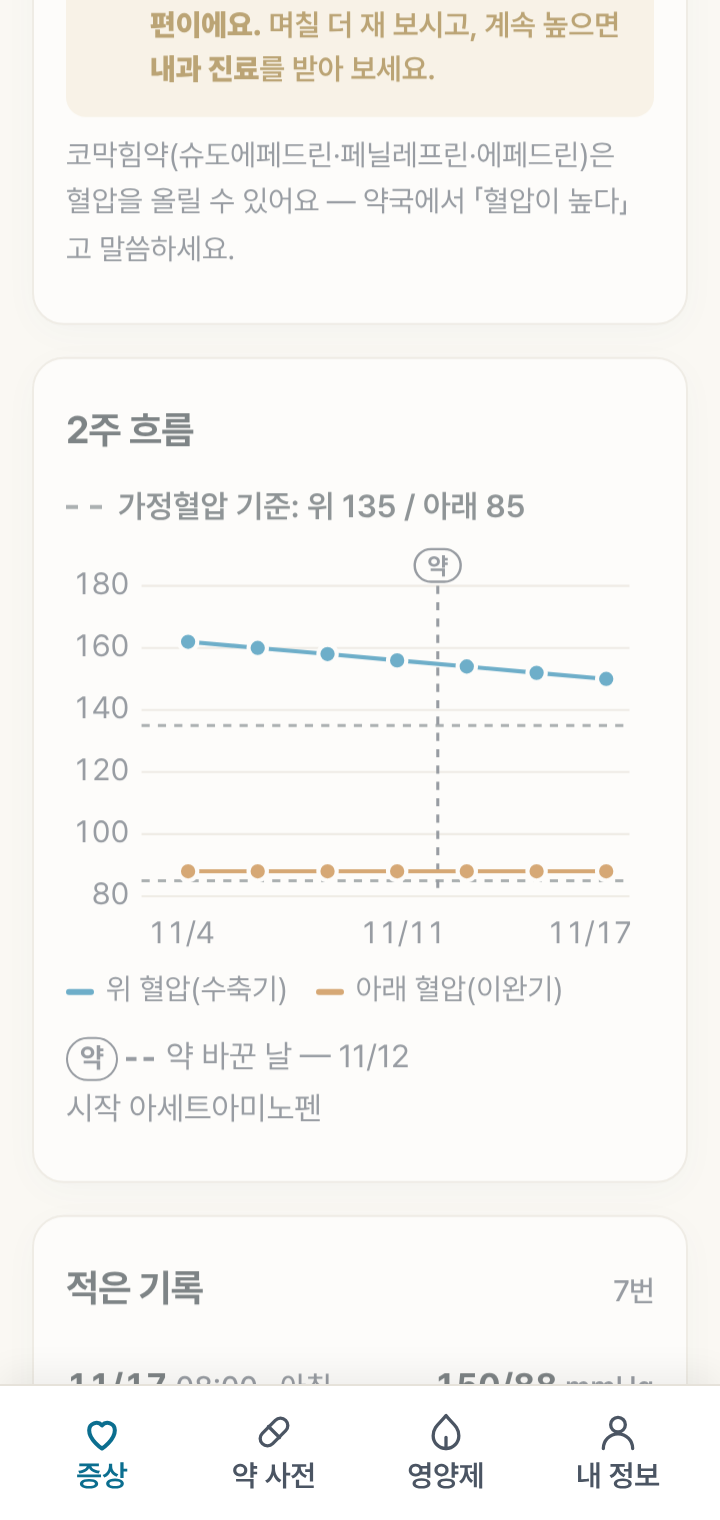
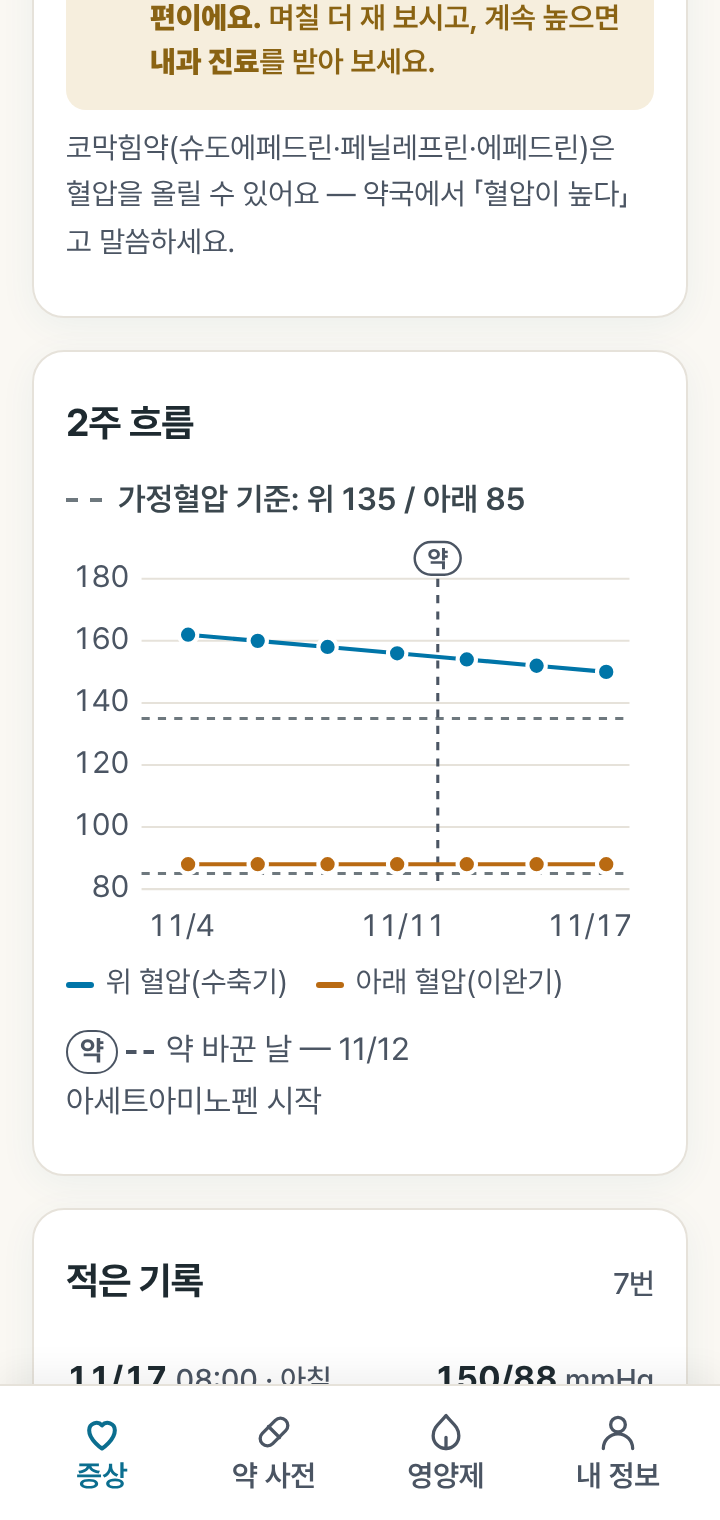
약지도: 그래프 범례 「11/12 아세트아미노펜 시작」 · 사진 다시
Claude-Session: https://claude.ai/code/session_01EnA5kC7cG7NGAyuaz7gY2Z

diff --git a/docs/yakjido/srv.js b/docs/yakjido/srv.js
@@ -5806,10 +5806,10 @@ window.vitalChart = function (k){
   /* 11-17 1등 로드맵 6 — 약을 담은 날·뺀 날을 세로 점선으로(혈압·혈당 변화와 약 바꾼 날을 한눈에). 같은 날은 하나로 */
   const CH = {}; for (const c of (ME.chg || [])) if (c.d >= dayBefore(13)) (CH[c.d] = CH[c.d] || []).push(c);
   const nmOf = id => { const it = takingItems().find(x => x.id === id) || (typeof drug === 'function' && drug(id)); return it ? String(it.name).split(' (')[0] : '약'; };
-  const marks = Object.keys(CH).sort().map(d => { const x = X(d + 'T12:00').toFixed(1), t = CH[d].map(c => (c.a ? '시작 ' : '뺌 ') + nmOf(c.id)).join(' · ');
+  const marks = Object.keys(CH).sort().map(d => { const x = X(d + 'T12:00').toFixed(1), t = CH[d].map(c => nmOf(c.id) + (c.a ? ' 시작' : ' 뺌')).join(' · ');
     return `<line x1="${x}" x2="${x}" y1="${pt}" y2="${H - pb}" class="vz-chg"><title>${d.slice(5).replace('-', '/')} ${esc(t)}</title></line><g class="vz-chgt" aria-hidden="true"><rect x="${(+x - fz * .75).toFixed(1)}" y="1" width="${(fz * 1.5).toFixed(1)}" height="${fz + 1}" rx="${((fz + 1) / 2).toFixed(1)}"/><text x="${x}" y="${(fz * .82 + 1).toFixed(1)}" text-anchor="middle">약</text></g>`; }).join('');
-  const chList = Object.keys(CH).sort().map(d => `${d.slice(5).replace('-', '/')} ${CH[d].map(c => (c.a ? '시작 ' : '뺌 ') + esc(nmOf(c.id))).join(' · ')}`);
-  return `${refLine}<svg class="vz" style="--vz:${fz}px" viewBox="0 0 ${W} ${H}" role="img" aria-label="최근 2주 ${k === 'bp' ? '혈압' : '혈당'} 흐름 — 아래 목록에 같은 숫자가 있어요">${grid}${refs}${days}${marks}${series}</svg>${legend}${chList.length ? `<p class="vz-chgl"><b>약</b><i></i>약 바꾼 날 — ${chList.join(' / ')}</p>` : ''}`;
+  const chList = Object.keys(CH).sort().map(d => `${d.slice(5).replace('-', '/')} ${CH[d].map(c => esc(nmOf(c.id)) + (c.a ? ' 시작' : ' 뺌')).join(' · ')}`);
+  return `${refLine}<svg class="vz" style="--vz:${fz}px" viewBox="0 0 ${W} ${H}" role="img" aria-label="최근 2주 ${k === 'bp' ? '혈압' : '혈당'} 흐름 — 아래 목록에 같은 숫자가 있어요">${grid}${refs}${days}${marks}${series}</svg>${legend}${chList.length ? `<p class="vz-chgl"><b>약</b><i></i>약 바꾼 날 — ${chList.join(' · ')}</p>` : ''}`;
 }
 try { const st = document.createElement('style'); st.textContent = '.vz-dot.v3{fill:var(--muted)}.vz-legend i.v3{background:var(--muted)}.vz-chg{stroke:var(--muted);stroke-width:1.5;stroke-dasharray:4 4}.vz-chgt rect{fill:var(--card,#fff);stroke:var(--muted);stroke-width:1.2}.vz-chgt text{fill:var(--muted);font-size:calc(var(--vz) * .78);font-weight:700}.vz-chgl{margin:8px 0 0;font-size:.9375rem;color:var(--muted);line-height:1.6;word-break:keep-all}.vz-chgl i{display:inline-block;width:14px;height:0;border-top:2px dashed var(--muted);vertical-align:middle;margin-right:6px}.vz-chgl b{display:inline-block;padding:0 6px;margin-right:4px;border:1.2px solid var(--muted);border-radius:999px;font-size:.8125rem;line-height:1.4}'; document.head.appendChild(st); } catch (e) {}
 /* 11-09 앱 껍데기에서 옮김(첫 화면 예산) */

diff --git a/yakjido/srv.js b/yakjido/srv.js
@@ -5806,10 +5806,10 @@ window.vitalChart = function (k){
   /* 11-17 1등 로드맵 6 — 약을 담은 날·뺀 날을 세로 점선으로(혈압·혈당 변화와 약 바꾼 날을 한눈에). 같은 날은 하나로 */
   const CH = {}; for (const c of (ME.chg || [])) if (c.d >= dayBefore(13)) (CH[c.d] = CH[c.d] || []).push(c);
   const nmOf = id => { const it = takingItems().find(x => x.id === id) || (typeof drug === 'function' && drug(id)); return it ? String(it.name).split(' (')[0] : '약'; };
-  const marks = Object.keys(CH).sort().map(d => { const x = X(d + 'T12:00').toFixed(1), t = CH[d].map(c => (c.a ? '시작 ' : '뺌 ') + nmOf(c.id)).join(' · ');
+  const marks = Object.keys(CH).sort().map(d => { const x = X(d + 'T12:00').toFixed(1), t = CH[d].map(c => nmOf(c.id) + (c.a ? ' 시작' : ' 뺌')).join(' · ');
     return `<line x1="${x}" x2="${x}" y1="${pt}" y2="${H - pb}" class="vz-chg"><title>${d.slice(5).replace('-', '/')} ${esc(t)}</title></line><g class="vz-chgt" aria-hidden="true"><rect x="${(+x - fz * .75).toFixed(1)}" y="1" width="${(fz * 1.5).toFixed(1)}" height="${fz + 1}" rx="${((fz + 1) / 2).toFixed(1)}"/><text x="${x}" y="${(fz * .82 + 1).toFixed(1)}" text-anchor="middle">약</text></g>`; }).join('');
-  const chList = Object.keys(CH).sort().map(d => `${d.slice(5).replace('-', '/')} ${CH[d].map(c => (c.a ? '시작 ' : '뺌 ') + esc(nmOf(c.id))).join(' · ')}`);
-  return `${refLine}<svg class="vz" style="--vz:${fz}px" viewBox="0 0 ${W} ${H}" role="img" aria-label="최근 2주 ${k === 'bp' ? '혈압' : '혈당'} 흐름 — 아래 목록에 같은 숫자가 있어요">${grid}${refs}${days}${marks}${series}</svg>${legend}${chList.length ? `<p class="vz-chgl"><b>약</b><i></i>약 바꾼 날 — ${chList.join(' / ')}</p>` : ''}`;
+  const chList = Object.keys(CH).sort().map(d => `${d.slice(5).replace('-', '/')} ${CH[d].map(c => esc(nmOf(c.id)) + (c.a ? ' 시작' : ' 뺌')).join(' · ')}`);
+  return `${refLine}<svg class="vz" style="--vz:${fz}px" viewBox="0 0 ${W} ${H}" role="img" aria-label="최근 2주 ${k === 'bp' ? '혈압' : '혈당'} 흐름 — 아래 목록에 같은 숫자가 있어요">${grid}${refs}${days}${marks}${series}</svg>${legend}${chList.length ? `<p class="vz-chgl"><b>약</b><i></i>약 바꾼 날 — ${chList.join(' · ')}</p>` : ''}`;
 }
 try { const st = document.createElement('style'); st.textContent = '.vz-dot.v3{fill:var(--muted)}.vz-legend i.v3{background:var(--muted)}.vz-chg{stroke:var(--muted);stroke-width:1.5;stroke-dasharray:4 4}.vz-chgt rect{fill:var(--card,#fff);stroke:var(--muted);stroke-width:1.2}.vz-chgt text{fill:var(--muted);font-size:calc(var(--vz) * .78);font-weight:700}.vz-chgl{margin:8px 0 0;font-size:.9375rem;color:var(--muted);line-height:1.6;word-break:keep-all}.vz-chgl i{display:inline-block;width:14px;height:0;border-top:2px dashed var(--muted);vertical-align:middle;margin-right:6px}.vz-chgl b{display:inline-block;padding:0 6px;margin-right:4px;border:1.2px solid var(--muted);border-radius:999px;font-size:.8125rem;line-height:1.4}'; document.head.appendChild(st); } catch (e) {}
 /* 11-09 앱 껍데기에서 옮김(첫 화면 예산) */

diff --git a/docs/yakjido/sw.js b/docs/yakjido/sw.js
@@ -9,7 +9,7 @@
                        판이 같으면 캐시 그대로, 판이 바뀌면 새로 받아 넣고 옛 판은 지운다(prune).
    판 없는 옛 주소는 «캐시 먼저» — 한 번 받은 것은 즉시 열리고, 뒤에서 조용히 새로 받아 둔다.
    인터넷이 안 되면 어느 캐시에든 있는 사본을 준다(5-01 — 첫 방문 뒤 비행기 모드에서 본문이 안 뜨던 것). */
-const CACHE = 'yakjido-2026-11-18T02:24-96449753';
+const CACHE = 'yakjido-2026-11-18T02:42-d01461ea';
 const DATA = 'yakjido-data-v1';
 /* 기내 모드·바깥 파일 0(10-27) — 글꼴(fonts/)·로그인 프로그램(vendor/)은 배포 묶음 안. 판이 박힌 꾸러미라 내용이 안 바뀌니 «캐시 먼저», 앱 판이 바뀌어도 지우지 않는다(EXT).
    바깥 주소는 하나도 담지 않는다 — 서버 응답(supabase REST)·날씨는 그대로 지나간다(09-22 원칙) */

diff --git a/docs/yakjido/index.html b/docs/yakjido/index.html
@@ -1810,7 +1810,7 @@ html:not(.ink) .rf-none{display:none}</style>
 <script>
 window.__YAKJIDO_OK__ = true;
 const D = JSON.parse(document.getElementById('data').textContent || '{}');
-const BUILD = '2026-11-18 02:24';
+const BUILD = '2026-11-18 02:42';
 const DATAV = 'ebf9e087db'.indexOf('__') === 0 ? BUILD : 'ebf9e087db';
 const BRANDMARK = (typeof window !== 'undefined' && window.__BRANDMARK__) || 'icon-192.png';
 let CORE = 0, CORE_P = null;
